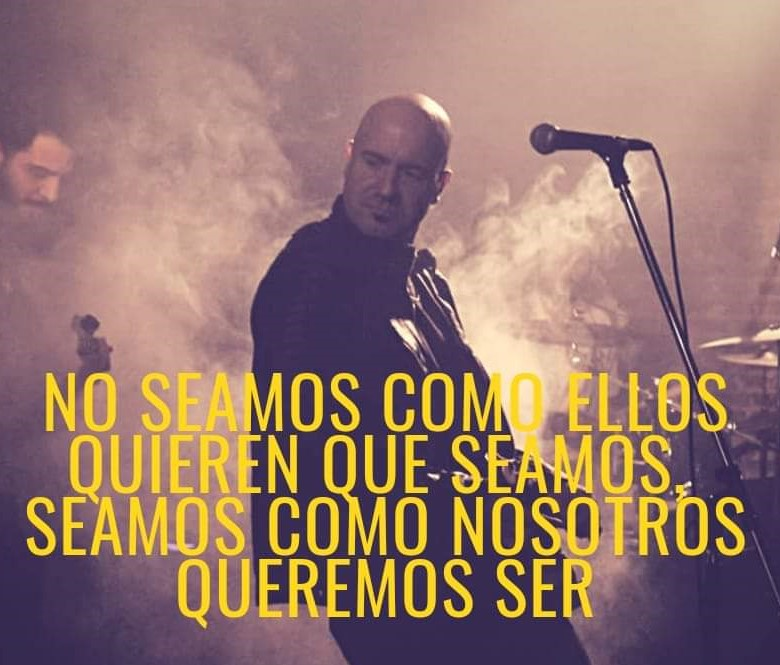
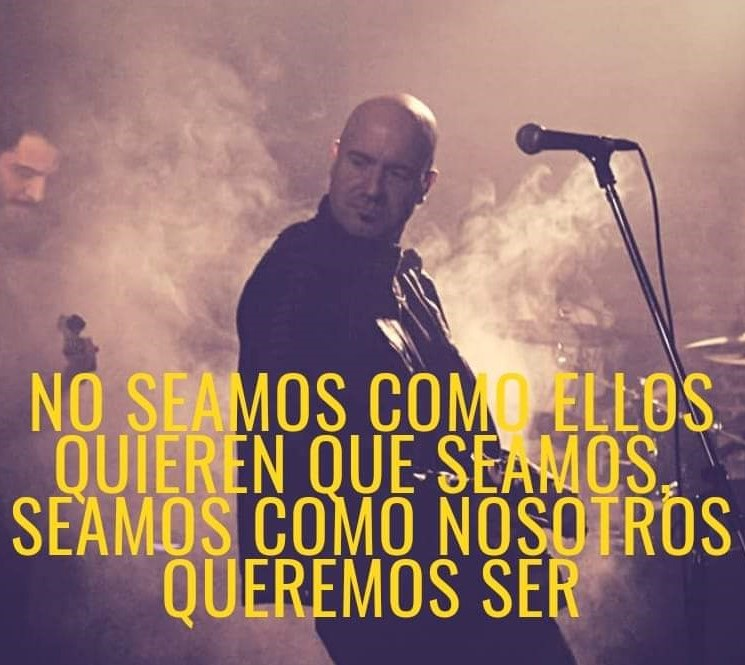
arreglo imagenes camino y completo bio

diff --git a/camino/bio.html b/camino/bio.html
@@ -28,6 +28,20 @@
             </nav>
         </div>
         </header>
+        <h1 class="font-mm font-bold text-3xl text-white m-4">Biografía</h1>
+    
+    <h2 class="font-mm  font-semibold p-2 text-xl text-center text my-6 mt-10 underline text-white" >Un poco sobre la historia detrás del artista</h2>
+    <section class="flex flex-col items-center">
+        <div class="w-11/12  flex flex-col font-zilla  text-white bg-black bg-opacity-85 my-8 p-4">
+            <img class="w-full h-full object-cover  border-2 border-black" src="img/bio.jpg" alt="biografia">
+        <p class="font-zilla text-lg p-2"><span class="text-rojoPelado text-3xl">Nacimiento y Orígenes</span> <br>Fernando Gonzalez Romero nació el 28 de enero de 1971 en Temperley, Lomas de Zamora, en la zona sur del Gran Buenos Aires. Hijo de dos inmigrantes españoles, su nombre refleja sus raíces. Desde joven, buscó diferenciarse y hacer cosas nuevas, lo que se refleja en su nombre artístico, que es una broma sobre su identidad.</p>
+        <p class="font-zilla text-lg p-2"><span class="text-rojoPelado text-3xl">Familia y Primeros Años</span> <br>Proveniente de una familia de trabajadores industriales sin antecedentes musicales, su padre heredó una fábrica que quebró en dos ocasiones. Gonzalez trabajó en la misma fábrica, lo que le inculcó un interés por las herramientas y la fabricación. Esta experiencia influyó en la elección de su cigarbox. Fue en el taller de su padre donde comenzó a practicar música y grabó la canción "Canción para naufragios". Esta canción simboliza el renacer y la renovación, tanto a nivel personal como industrial.</p>
+        <p class="font-zilla text-lg p-2"><span class="text-rojoPelado text-3xl">Influencias Musicales</span> <br>En su hogar siempre hubo música: Sandro como influencia de su madre y música clásica como influencia de su padre.<br>Durante su adolescencia en los años 80, se interesó por el ska y el reggae, influenciado por bandas como The Police, Soda Stereo y Los Abuelos de la Nada. En los años 90, se adentró en el blues, frecuentando clubes de este género. Posteriormente, su estilo se vio influenciado por artistas como Tom Waits, The Rolling Stones, Frank Zappa y Luis Alberto Spinetta.
+        </p>
+        <p class="font-zilla text-lg p-2"><span class="text-rojoPelado text-3xl">Literatura y Desarrollo Artístico </span> <br>La literatura ha jugado un papel crucial en su desarrollo artístico. Desde niño, leyó sagas literarias como "El Señor de los Anillos", y más tarde exploró géneros filosóficos dentro de la literatura argentina, con autores como Ernesto Sabato, Alejandro Dolina, Julio Cortázar y Jorge Luis Borges. <br> Gonzalex Romero es un artista que ha sabido combinar sus raíces industriales con una rica influencia musical y literaria, creando un estilo único y renovador.</p>
+      </div>
+    
+      </section>
         <footer class="flex flex-wrap justify-between bg-black opacity-80 lg:flex-nowrap">
             <section class="w-1/2 flex justify-start items-center lg:p-3 lg:m-3 p-1 m-1 my-3 lg:w-1/3 ">
                 <a href="https://m.facebook.com/gonzalexromero/" target="_blank"><img class="w-10 h-10 mx-1.5 p-1  rounded bg-white" src="../img/iconos/fb.png" alt="facebook"></a>

diff --git a/camino/index.html b/camino/index.html
@@ -31,8 +31,8 @@
     <main>
         <h1 class="font-mm font-bold text-3xl text-white m-4">El Camino</h1>
         <section class="flex flex-col w-full lg:flex-row justify-around lg:justify-center  my-10 lg:my-20 text-xl">
-            <div class="h-96 w-1/2 m-4 my-10 mx-10  lg:w-bloquesMain lg:m-2 group relative">
-                <a href="bio.html" target="_self">
+          <div class="m-4 my-10 lg:w-bloquesMain lg:m-2 group relative">
+            <a href="bio.html" target="_self">
                     <div class="absolute inset-0 bg-slate-900 bg-opacity-0 group-hover:bg-opacity-60 transition duration-1000 y w-full h-full">
                         <span class="invisible absolute font-medium h-full p-10 text-slate-200 bg-slate-50 bg-opacity-0 opacity-0 transition duration-1000 group-hover:visible group-hover:opacity-100 group-hover:bg-opacity-10 ">Breve biografía personal</span>
                     </div>
@@ -41,8 +41,8 @@
                 <h3 class="font-mm text-center text-slate-200 capitalize my-2">Bio</h3>
             </div>
 
-            <div class="h-96 w-1/2 m-4 my-10 mx-10  lg:w-bloquesMain lg:m-2 group relative">
-                <a href="recorrido-musical.html" target="_self">
+            <div class="m-4 my-10 lg:w-bloquesMain lg:m-2 group relative">
+              <a href="recorrido-musical.html" target="_self">
                     <div class="absolute inset-0 bg-slate-900 bg-opacity-0 group-hover:bg-opacity-60 transition duration-1000 y w-full h-full">
                         <span class="invisible absolute font-medium h-full w-full p-10 text-slate-200 bg-slate-50 bg-opacity-0 opacity-0 transition duration-1000 group-hover:visible group-hover:opacity-100 group-hover:bg-opacity-10 ">Un poco de la trayectoria musical</span>
                     </div>
@@ -55,7 +55,7 @@
         <section class="flex flex-col items-center my-10 lg:my-15 bg-black bg-opacity-80 lg:bg-transparent m-4 lg:m-2 p-4">
            <div class="lg:bg-black lg:bg-opacity-80 lg:p-4 lg:my-4">
             <h1 class="font-zilla font-bold text-4xl text-white text-center lg:text-5xl lg:my-4 my-6">Galería</h1>
-            <p class="font-zilla font-bold text-lg text-white text-center lg:my-4 my-6">Un para de fotos que dejan entrever un poco los pasos del recorrido</p>
+            <p class="font-zilla font-bold text-lg text-white text-center lg:my-4 my-6">Un par de fotos que dejan entrever un poco los pasos del recorrido</p>
            </div>
 
 <!--Galería-->
